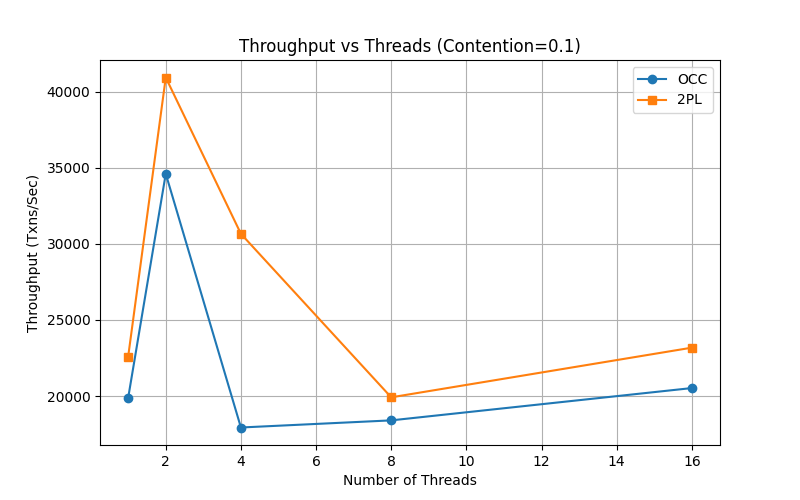
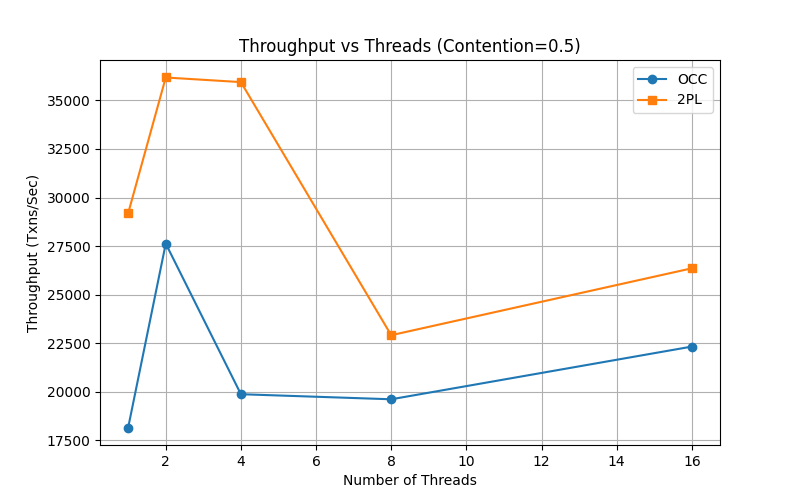
BugFix : The duplicate lock request bug

diff --git a/benchmark.py b/benchmark.py
@@ -81,11 +81,11 @@ def run_all():
                 results["distributions"][protocol] = collect_distribution(protocol)
             clean_distributions()
             
-    # Experiment 2: Throughput/Resp vs Threads (Contention = 0.1)
-    print("--- Exp 2: Performance vs Threads (Contention=0.1) ---")
+    # Experiment 2: Throughput/Resp vs Threads (Contention = 0.5)
+    print("--- Exp 2: Performance vs Threads (Contention=0.5) ---")
     for protocol in PROTOCOLS:
         for t in THREADS:
-            a, thru, r = run_experiment(protocol, 0.1, t)
+            a, thru, r = run_experiment(protocol, 0.5, t)
             results["thru_vs_threads"][protocol].append(thru)
             results["resp_vs_threads"][protocol].append(r)
             clean_distributions()
@@ -113,7 +113,7 @@ def plot_results(results):
     plt.plot(THREADS, results["thru_vs_threads"]["2pl"], marker='s', label="2PL")
     plt.xlabel("Number of Threads")
     plt.ylabel("Throughput (Txns/Sec)")
-    plt.title("Throughput vs Threads (Contention=0.1)")
+    plt.title("Throughput vs Threads (Contention=0.5)")
     plt.legend()
     plt.grid(True)
     plt.savefig("graphs/thru_vs_threads.png")
@@ -137,7 +137,7 @@ def plot_results(results):
     plt.plot(THREADS, results["resp_vs_threads"]["2pl"], marker='s', label="2PL")
     plt.xlabel("Number of Threads")
     plt.ylabel("Average Response Time (us)")
-    plt.title("Response Time vs Threads (Contention=0.1)")
+    plt.title("Response Time vs Threads (Contention=0.5)")
     plt.legend()
     plt.grid(True)
     plt.savefig("graphs/resp_vs_threads.png")

diff --git a/report.md b/report.md
@@ -52,25 +52,25 @@ For 2PL, the number of aborts climbs slowly (210 to 1544) as contention increase
 
 Throughput is measured in committed transactions per second.
 
-**Throughput vs Threads (Contention = 0.1):**
+**Throughput vs Threads (Contention = 0.5):**
 | Threads | OCC (txns/sec) | 2PL (txns/sec) |
 | :--- | :--- | :--- |
-| 1 | ~19,886 | ~22,599 |
-| 2 | ~34,603 | ~40,926 |
-| 4 | ~17,936 | ~30,659 |
-| 8 | ~18,404 | ~19,918 |
-| 16 | ~20,526 | ~23,180 |
+| 1 | ~18,152 | ~29,193 |
+| 2 | ~27,624 | ~36,182 |
+| 4 | ~19,867 | ~35,945 |
+| 8 | ~19,606 | ~22,907 |
+| 16 | ~22,320 | ~26,353 |
 
 ![Throughput vs Threads](graphs/thru_vs_threads.png)
 
 **Throughput vs Contention (Threads = 4):**
 | Contention | OCC (txns/sec) | 2PL (txns/sec) |
 | :--- | :--- | :--- |
-| 0.1 | ~26,665 | ~35,306 |
-| 0.3 | ~23,116 | ~38,810 |
-| 0.5 | ~27,043 | ~34,272 |
-| 0.7 | ~24,558 | ~35,597 |
-| 0.9 | ~20,219 | ~35,403 |
+| 0.1 | ~47,261 | ~9,161 |
+| 0.3 | ~26,066 | ~13,664 |
+| 0.5 | ~27,884 | ~13,972 |
+| 0.7 | ~23,158 | ~21,695 |
+| 0.9 | ~23,678 | ~14,192 |
 
 ![Throughput vs Contention](graphs/thru_vs_contention.png)
 
